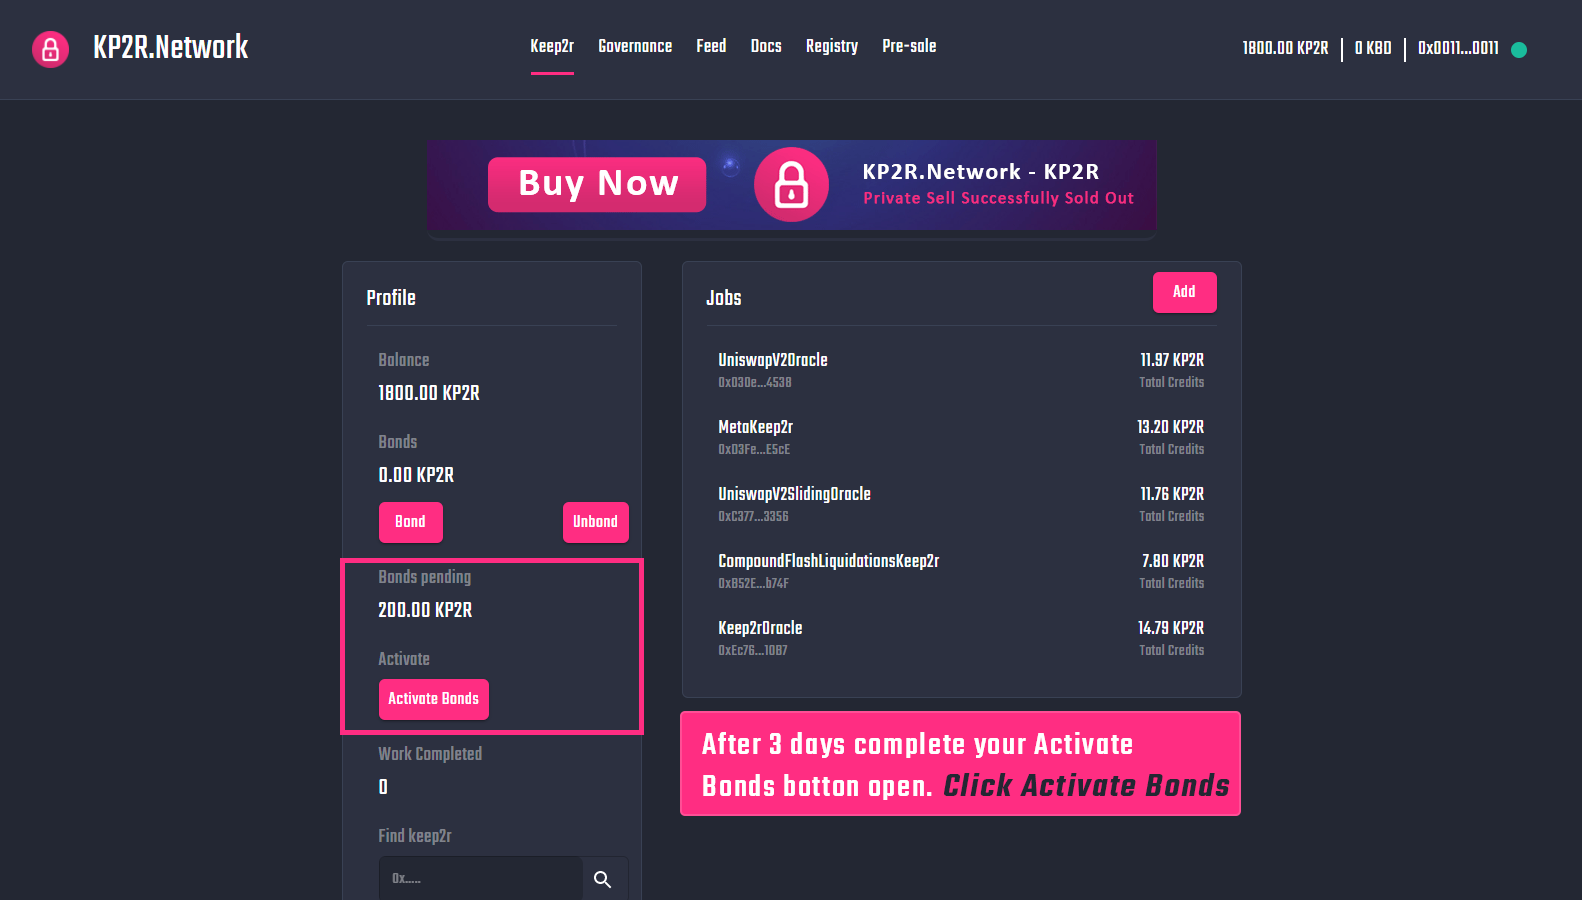
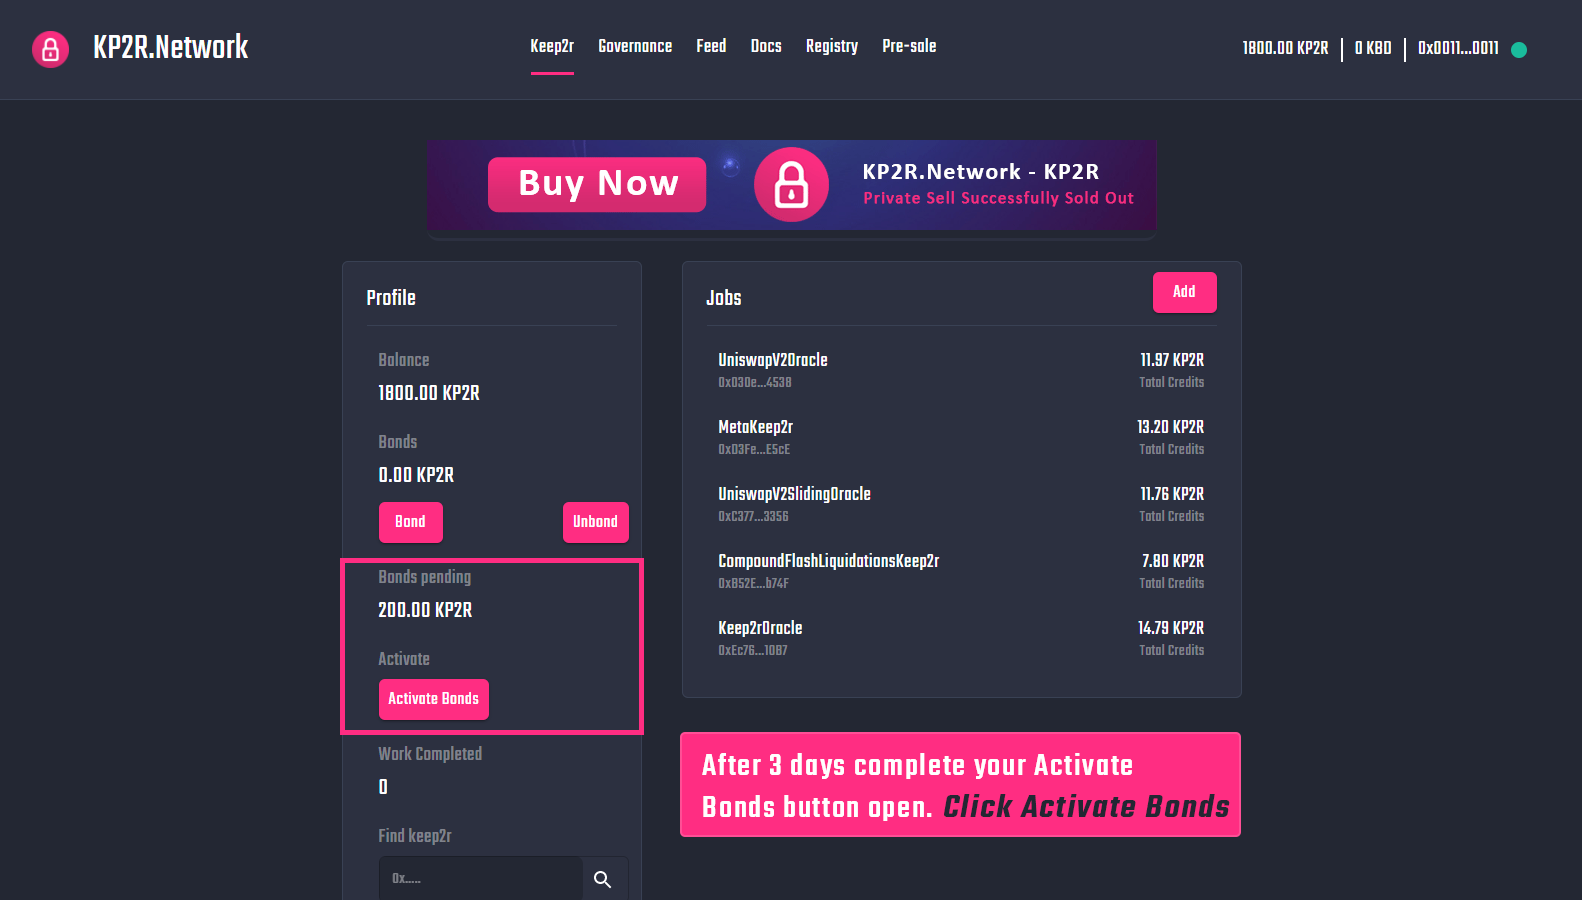
readme_howto

Changed region(s): [[0.4027, 0.7778, 0.8053, 0.9333]]

diff --git a/README.md b/README.md
@@ -1,2 +1,70 @@
-# howto-job
-howto-job
+# Keep2r Network (KP2R) Origin & How to Complete a Keepers Job
+
+
+## KP2R Network
+An Advanced & Incentive Enabled Decentralize Financial System
+
+Inspired by Andre Cronje’s Keeper Network “Keep2r Network” idea was born. While the DeFi space was flooding with poor attempts on making a successful fork implementation of the real one, none actually had the core functionalities baked into them to able to be even called as a successful fork. The DeFi God had some clear qualities in his version of keeper but others upon failing on doing so made millions just by creating fake hypes in the DeFi space. Following on his footsteps Keep2r Network is committed to make all the necessary developments live first then put it out to users for evaluation. We believe real developers don’t ask for funds based upon fake promises rather putting the hard works first and then let the people decide its worth.
+
+Keep2r Network is doing just that, making developments live beforehand and then let you guys decide!
+
+Keep2r Network is a decentralized keeper network inspired by the DeFi Guru ‘Andre Cronje’ needing external develops and for external teams to find keeper jobs. It’s basically can be described as a ‘Job Matching’ site.
+
+
+## How to use KP2R.Network
+
+* Register the Bond
+* Bonds Pending
+* Activate Bonds
+* Your Jobs Running
+* Start the Work
+
+
+### 1. Register the Bond
+Connect a wallet (KP2R Holding Wallet). Register the bond with your KP2R Token.
+
+[![N|Solid](https://raw.githubusercontent.com/kp2r-network/howto-job/master/1-register-bond.png)](https://kp2r.network/)
+
+
+### 2. Bonds Pending
+
+Your bond activation need 3 days. After 3 days open activate bonds button.
+
+[![N|Solid](https://raw.githubusercontent.com/kp2r-network/howto-job/master/2-bond-pending.png)](https://kp2r.network/)
+
+After the bonding period of 3 days you will be able to select activate.
+
+
+### 3. Activate Bonds
+
+After 3 days complete your activate bonds button is open. Click Activate Bonds.
+
+[![N|Solid](https://raw.githubusercontent.com/kp2r-network/howto-job/master/3-activate-bond.png)](https://kp2r.network/)
+
+Select the Jobs from KP2R Network jobs list.
+
+Open your favorite Terminal and run these commands.
+
+
+### 4. Your Jobs Running
+
+Your KP2R.Network keeper jobs are running. You are a Keep2r.
+
+[![N|Solid](https://raw.githubusercontent.com/kp2r-network/howto-job/master/4-job-running.png)](https://kp2r.network/)
+
+You can view current available jobs, for now 5 Jobs is available, however more will be added.
+
+KP2R jobs implement a function called work
+
+### 5. Start the Work
+
+[![N|Solid](https://github.com/kp2r-network/howto-job/blob/master/work-connect.png)](https://kp2r.network/)
+
+As a simple keeper, you only need to call work and you will receive KP2R.
+
+For details on registering a job or additional information please visit the documentation.
+
+**Real Earning from**
+**Real Keep2r Network**
+
+**Happy Keeping 🔒**
